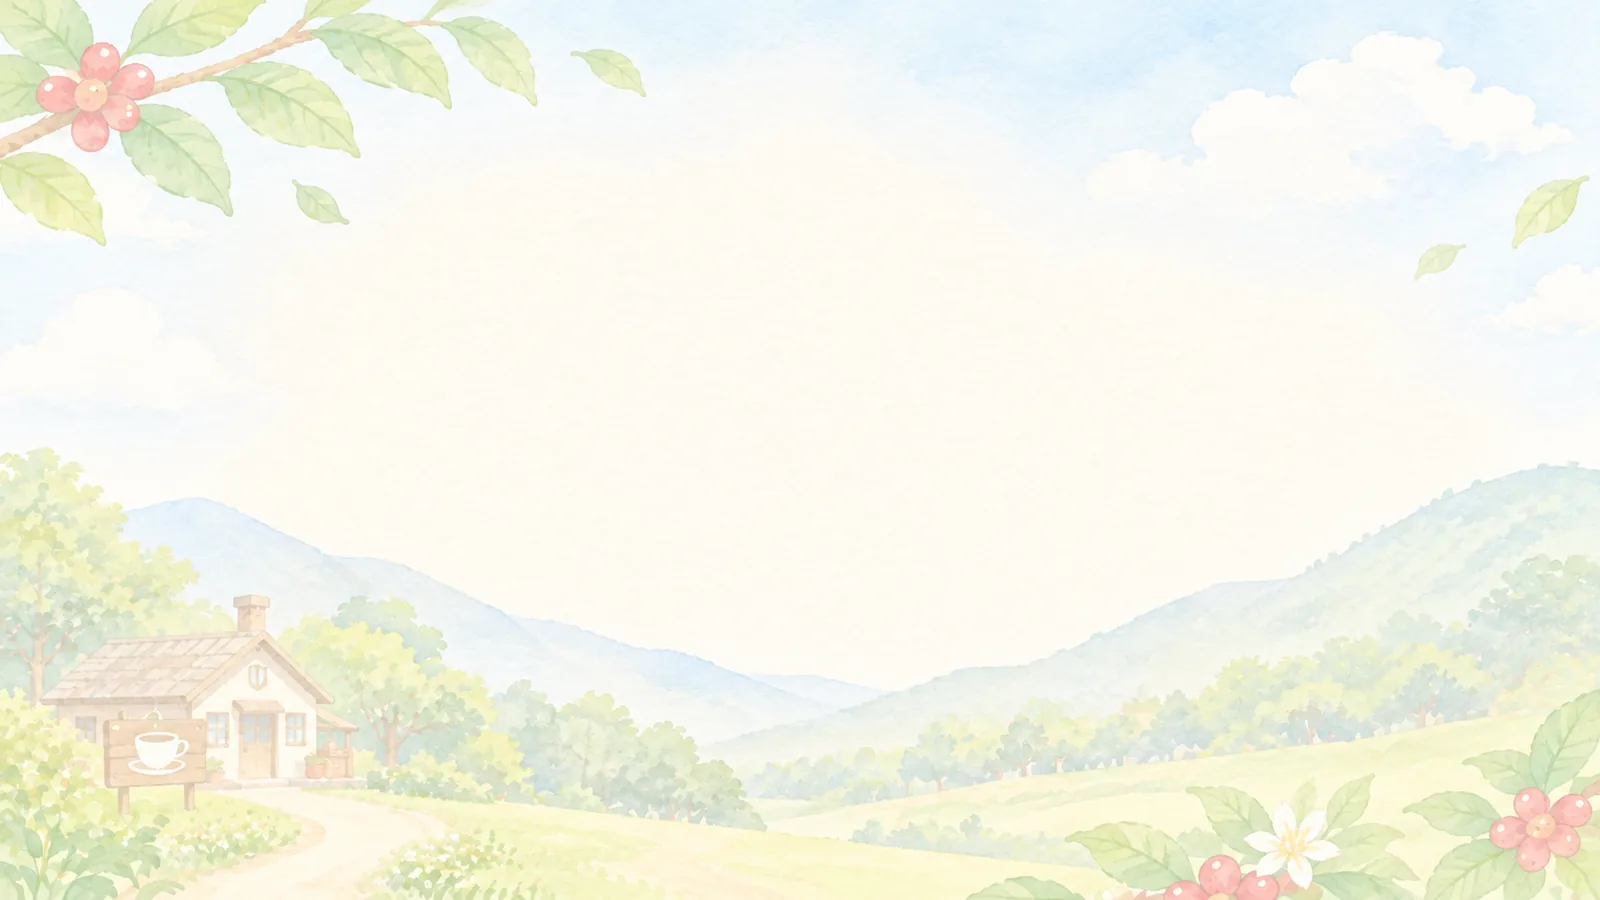
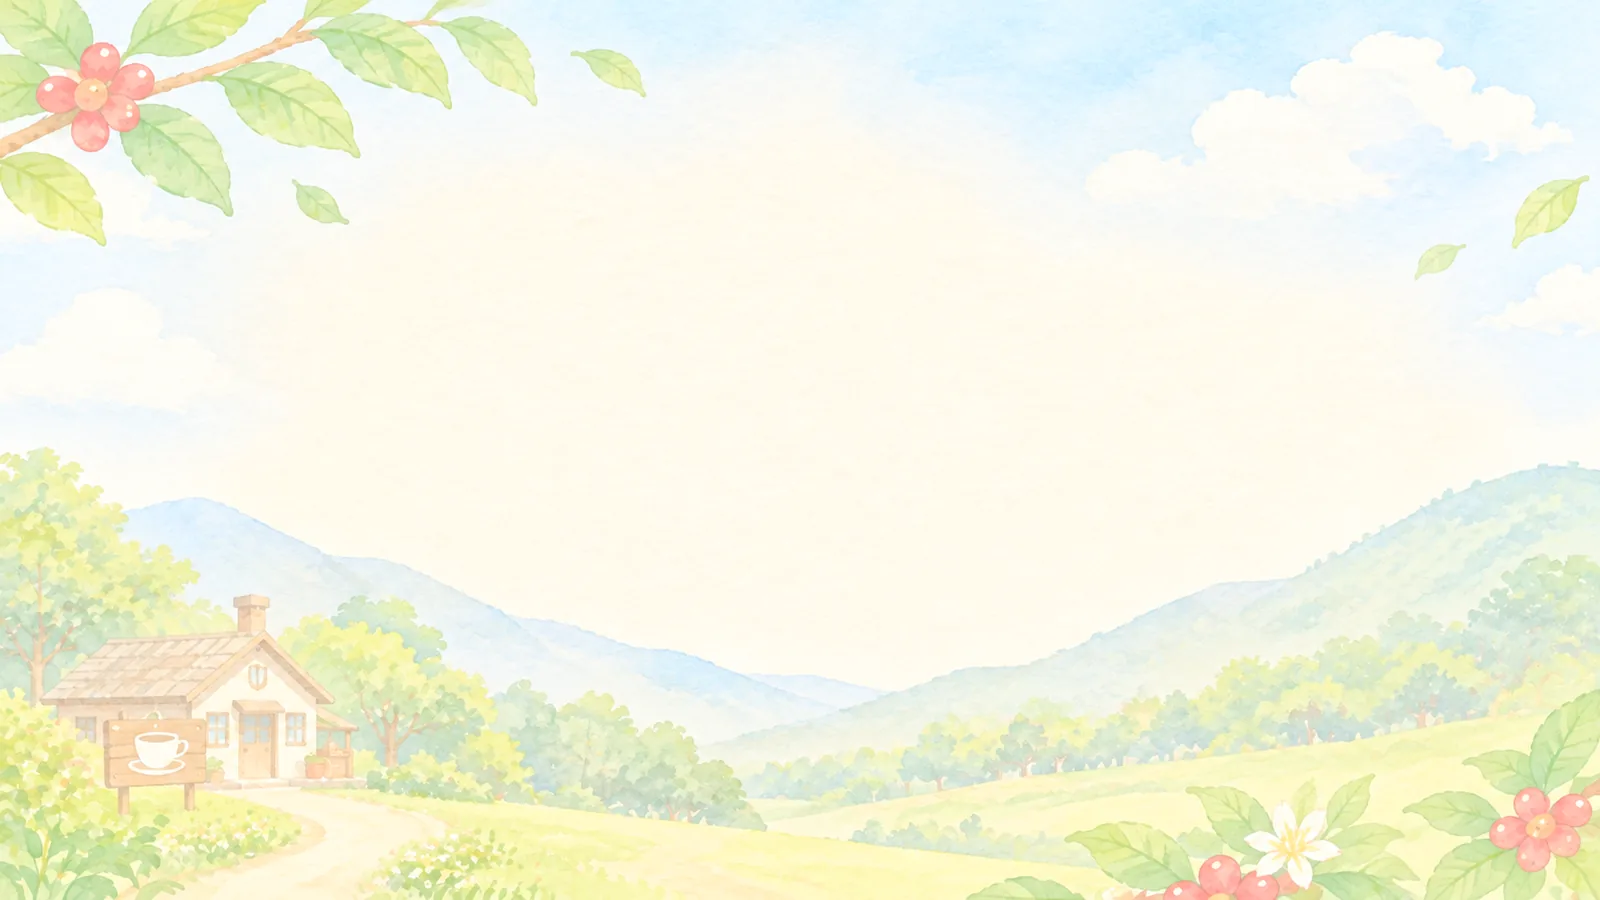
焙煎所についての背景イラストの色を濃く調整
Claude-Session: https://claude.ai/code/session_0177yCncSykj879qzcPo22vF

diff --git a/css/style.css b/css/style.css
@@ -1262,3 +1262,5 @@ h1, h2, h3, .about-lead, .page-catch, .bp-catch, .card-kicker, .chooser-a, .hero
     #FBF7EE; }
   #about::before { background: rgba(251,247,238,.35); }
 }
+#about::before { background: linear-gradient(rgba(251,247,238,.35), rgba(251,247,238,.2) 60%, rgba(251,247,238,.05)); }
+@media (max-width: 800px) { #about::before { background: rgba(251,247,238,.12); } }
